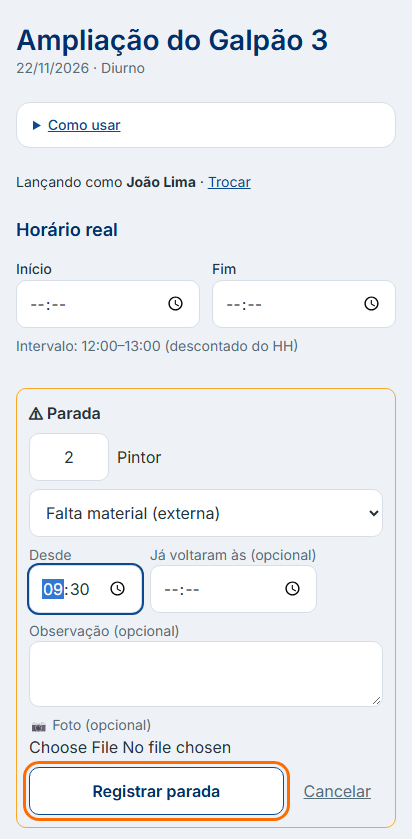
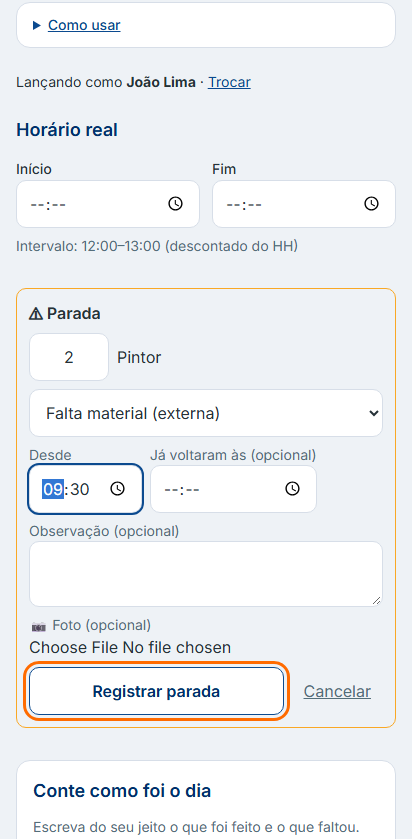
docs(ajuda): contar o dia com a IA; test(e2e): contar o dia

diff --git a/tests/e2e/contar-dia.spec.ts b/tests/e2e/contar-dia.spec.ts
@@ -1,0 +1,90 @@
+import { devices, expect, test } from "@playwright/test";
+import { adicionarAtividade } from "@/lib/db/atividades";
+import { criarObra } from "@/lib/db/obras";
+import { aplicarAcao, criarTurno } from "@/lib/db/turnos";
+import { criarClienteAdmin } from "@/lib/supabase/admin";
+import { criarUsuarioTeste, removerUsuarioTeste, type UsuarioTeste } from "../integracao/ajuda";
+
+// A IA é a falsa (FRENTIA_IA_FALSA=1 no webServer do playwright.config.ts): nada é cobrado.
+test.skip(process.env.SUPABASE_TEST !== "1", "E2E usa o Supabase de desenvolvimento (SUPABASE_TEST=1)");
+
+let u: UsuarioTeste | undefined;
+test.afterAll(async () => {
+  if (u) await removerUsuarioTeste(u.userId);
+});
+
+const hojeSP = () => new Intl.DateTimeFormat("en-CA", { timeZone: "America/Sao_Paulo" }).format(new Date());
+function exigir<T>(r: { ok: true; dados: T } | { ok: false; erro: string }): T {
+  if (!r.ok) throw new Error(r.erro);
+  return r.dados;
+}
+
+test("conte como foi o dia: prévia, pergunta, lançar e o planejador vê o texto", async ({ browser, request }) => {
+  test.setTimeout(300_000);
+  u = await criarUsuarioTeste();
+  const obra = exigir(await criarObra(u.cliente, { nome: "Obra Contar E2E" }));
+  const { data: r, error } = await u.cliente.from("responsaveis").insert({ obra_id: obra.id, nome: "Ana" }).select("id").single();
+  if (error || !r) throw new Error(error?.message);
+  const ana = r.id as string;
+  const turno = exigir(await criarTurno(u.cliente, {
+    obra_id: obra.id, data: hojeSP(), periodo: "diurno", hora_inicio_prevista: "07:00", hora_fim_prevista: "17:00",
+  }));
+  const a = exigir(await adicionarAtividade(u.cliente, turno.id, { descricao: "Tubulação linha 3", unidade: "m", qtd_planejada: 50 }));
+  const b = exigir(await adicionarAtividade(u.cliente, turno.id, { descricao: "Suporte de tubo", unidade: "un", qtd_planejada: 8 }));
+  await u.cliente.from("atividades").update({ responsavel_id: ana }).in("id", [a.id, b.id]);
+  const { token } = exigir(await aplicarAcao(u.cliente, turno.id, "liberar")) as { token: string };
+
+  const urlAna = `/t/${token}?r=${ana}`;
+  await Promise.all([request.get("/login"), request.get(urlAna)]);
+  const pl = await browser.newPage();
+  await pl.goto("/login");
+  await pl.getByLabel("E-mail").fill(u.email);
+  await pl.getByLabel("Senha").fill(u.senha);
+  await pl.getByRole("button", { name: "Entrar" }).click();
+  await pl.waitForURL("**/obras");
+  await pl.goto(`/obras/${obra.id}/turnos/${turno.id}`);
+
+  const ctx = await browser.newContext({ ...devices["Pixel 7"] });
+  const cel = await ctx.newPage();
+  await cel.goto(urlAna);
+  const caixa = cel.locator("section[aria-labelledby='titulo-contar-dia']");
+  await expect(caixa.getByRole("heading", { name: "Conte como foi o dia" })).toBeVisible();
+
+  // IA fora do ar: avisa e o texto fica guardado, inclusive ao recarregar.
+  await caixa.getByRole("textbox").fill("ERRO teste");
+  await caixa.getByRole("button", { name: "Organizar" }).click();
+  await expect(caixa.getByText("Não deu para organizar agora — tente de novo ou lance nos cards.")).toBeVisible();
+  await cel.reload();
+  await expect(caixa.getByRole("textbox")).toHaveValue("ERRO teste");
+
+  // Organizar → prévia com uma pergunta; Lançar só depois da resposta.
+  await caixa.getByRole("textbox").fill("fizemos 30 m de tubulação, faltou andaime");
+  await caixa.getByRole("button", { name: "Organizar" }).click();
+  await expect(caixa.getByText("A IA entendeu:")).toBeVisible();
+  await expect(caixa.getByText("Tubulação linha 3 — 0 → 30 m de 50 m (parcial)")).toBeVisible();
+  await expect(caixa.getByText("Suporte de tubo — você não falou nada (fica como está)")).toBeVisible();
+  await expect(caixa.getByRole("button", { name: "Lançar" })).toBeDisabled();
+
+  // Corrigir texto volta sem gravar nada.
+  await caixa.getByRole("button", { name: "Corrigir texto" }).click();
+  await expect(caixa.getByRole("textbox")).toHaveValue("fizemos 30 m de tubulação, faltou andaime");
+  await caixa.getByRole("button", { name: "Organizar" }).click();
+  await expect(caixa.getByText("Andaime é…")).toBeVisible();
+  await caixa.getByRole("button", { name: "Falta material" }).click();
+  await caixa.getByRole("button", { name: "Lançar" }).click();
+  await expect(caixa.getByText("Lançado ✓ — confira nos cards abaixo.")).toBeVisible({ timeout: 30_000 });
+
+  const card = cel.locator("section[aria-labelledby='titulo-atividades'] > div").nth(0);
+  await expect(card.getByLabel(/Total feito hoje/)).toHaveValue("30");
+  const { data: gravada } = await criarClienteAdmin().from("atividades").select("qtd_realizada, causa, observacao").eq("id", a.id).single();
+  expect(gravada).toEqual({ qtd_realizada: 30, causa: "material", observacao: "faltou andaime" });
+  await cel.reload();
+  await expect(caixa.getByRole("textbox")).toHaveValue("");
+
+  // Planejador vê o texto original.
+  await pl.reload();
+  await pl.getByText("O que o campo escreveu (1)").click();
+  await expect(pl.getByText("fizemos 30 m de tubulação, faltou andaime")).toBeVisible();
+  await expect(pl.getByText("lançado", { exact: true })).toBeVisible();
+  await ctx.close();
+});

diff --git a/tests/manual/capturas.spec.ts b/tests/manual/capturas.spec.ts
@@ -150,6 +150,15 @@ test("capturas do manual", async ({ browser, page: pl, request }) => {
   await fotografar(cel, "campo", "lancar");
   await cartao("Base do compressor").getByRole("button", { name: /Marcar como concluída/ }).click();
   await expect(cartao("Base do compressor").getByText("Salvo ✓")).toBeVisible({ timeout: 20_000 });
+  // Conte como foi o dia (IA falsa do playwright.config): prévia com perguntas; depois some com o relato de exemplo.
+  const contar = cel.locator("section[aria-labelledby='titulo-contar-dia']");
+  await contar.getByRole("textbox").fill("fizemos 20 m de tubulação, faltou andaime");
+  await contar.getByRole("button", { name: "Organizar" }).click();
+  await expect(contar.getByText("Andaime é…")).toBeVisible({ timeout: 20_000 });
+  await fotografar(cel, "campo", "contar-dia");
+  await contar.getByRole("button", { name: "Corrigir texto" }).click();
+  await contar.getByRole("textbox").fill("");
+  await criarClienteAdmin().from("relatos_campo").delete().eq("responsavel_id", ids["Ana Souza"]);
 
   await cel.goto(`/t/${token}?r=${ids["João Lima"]}`);
   await cartao("Pintura do guarda-corpo").getByLabel(/Total feito hoje/).fill("10");

diff --git a/lib/ajuda/conteudo/campo.ts b/lib/ajuda/conteudo/campo.ts
@@ -34,6 +34,21 @@ export const campo: Capitulo = {
       },
     },
     {
+      id: "contar-dia",
+      titulo: "Conte como foi o dia (IA)",
+      texto: [
+        "Prefere escrever do seu jeito? Em \"Conte como foi o dia\", escreva ou dite pelo microfone do teclado, por exemplo: \"fizemos 30 m de tubulação, faltou andaime\". Toque em \"Organizar\".",
+        "A IA mostra o que entendeu e, se faltar algo, faz até 2 perguntas com botões (\"Andaime é… Falta material ou Equipamento?\"). O que você não falou fica como está, e nada é inventado.",
+        "Nada é gravado até você tocar em \"Lançar\". Errou? Toque em \"Corrigir texto\". Sem sinal, o texto fica guardado: tente de novo ou lance nos cards.",
+      ],
+      dica: "O planejador vê o texto que você escreveu, junto do lançamento.",
+      captura: {
+        alt: "Caixa Conte como foi o dia com a prévia do que a IA entendeu e as perguntas com botões",
+        alvo: { papel: "heading", nome: "Conte como foi o dia" },
+        dispositivo: "celular",
+      },
+    },
+    {
       id: "efetivo",
       titulo: "Informe o efetivo",
       texto: [

diff --git a/lib/ajuda/novidades.ts b/lib/ajuda/novidades.ts
@@ -4,6 +4,11 @@ import type { Novidade } from "./tipos";
 export const NOVIDADES: Novidade[] = [
   {
     data: "2026-11-22",
+    texto: "Conte como foi o dia: no link de campo, escreva ou dite e a IA organiza o lançamento para você conferir antes de gravar.",
+    href: "/ajuda/campo#contar-dia",
+  },
+  {
+    data: "2026-11-22",
     texto: "Lançamento mais claro: \"Total feito hoje\", botão \"+ Somar\" e pergunta antes de trocar um parcial pela meta.",
     href: "/ajuda/campo#lancar",
   },
